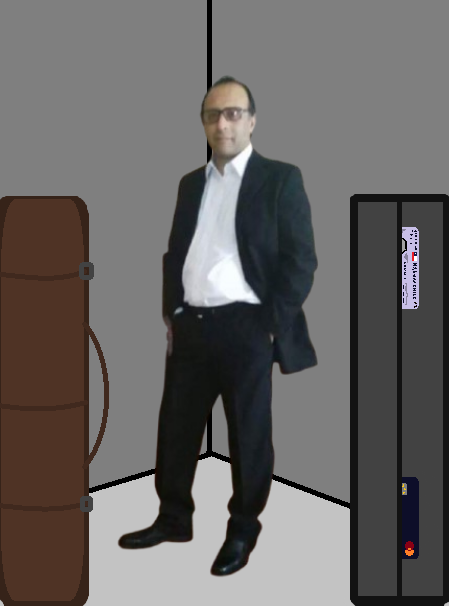
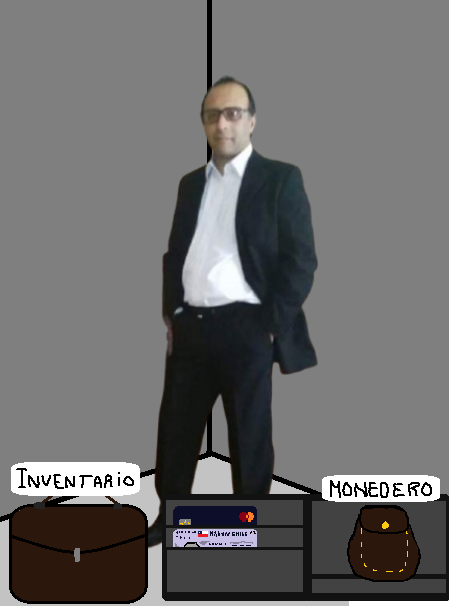
Se implemento una parte del codigo que se encarga de entregar el vuelto, y se incluyeron las imagenes .png de esta implementacion

diff --git a/src/main/java/GUI/panelInput.java b/src/main/java/GUI/panelInput.java
@@ -2,6 +2,8 @@ package GUI;
 
 import javax.swing.*;
 import java.awt.*;
+import org.tarea3.Deposito;
+import org.tarea3.Moneda;
 
 public class panelInput extends JPanel {
     private JLabel dinero;
@@ -9,6 +11,7 @@ public class panelInput extends JPanel {
     private JLabel notificacion;
     private JButton botonDevolverMonedas;
     private JButton botonComprar;
+    private JButton botonSacarMonedas;
     public panelInput(){
         super();
         this.setLayout(new BorderLayout());
@@ -77,11 +80,30 @@ public class panelInput extends JPanel {
 
         panelComponentes.add(this.botonComprar);
 
+        ImageIcon monedaVaciaIcon = new ImageIcon(getClass().getResource("/img/monedasVacio.png"));
+
+        this.botonSacarMonedas = new JButton(monedaVaciaIcon);
+        this.botonSacarMonedas.setBounds(115, 315, 80, 80); // Posición (x,y) y tamaño (ancho,alto)
+
+        this.botonSacarMonedas.setOpaque(true);
+        this.botonSacarMonedas.setContentAreaFilled(true);
+        this.botonSacarMonedas.setBorderPainted(true);
+        this.botonSacarMonedas.setBackground(new Color(130, 0, 0));
+        this.botonSacarMonedas.setForeground(Color.WHITE);
+        this.botonSacarMonedas.setFocusPainted(false);
+
+        panelComponentes.add(this.botonSacarMonedas);
+
         add(panelComponentes, BorderLayout.CENTER);
     }
     public void mostrarCambios(Object valorActualizado){
         dinero.setText("$"+(int) valorActualizado);
     }
+
+    public void mostrarVuelto(Object objeto){
+        botonSacarMonedas.setIcon(new ImageIcon(getClass().getResource("/img/monedasVacio.png")));
+    }
+
     public JButton getBotonComprar(){
         return this.botonComprar;
     }
